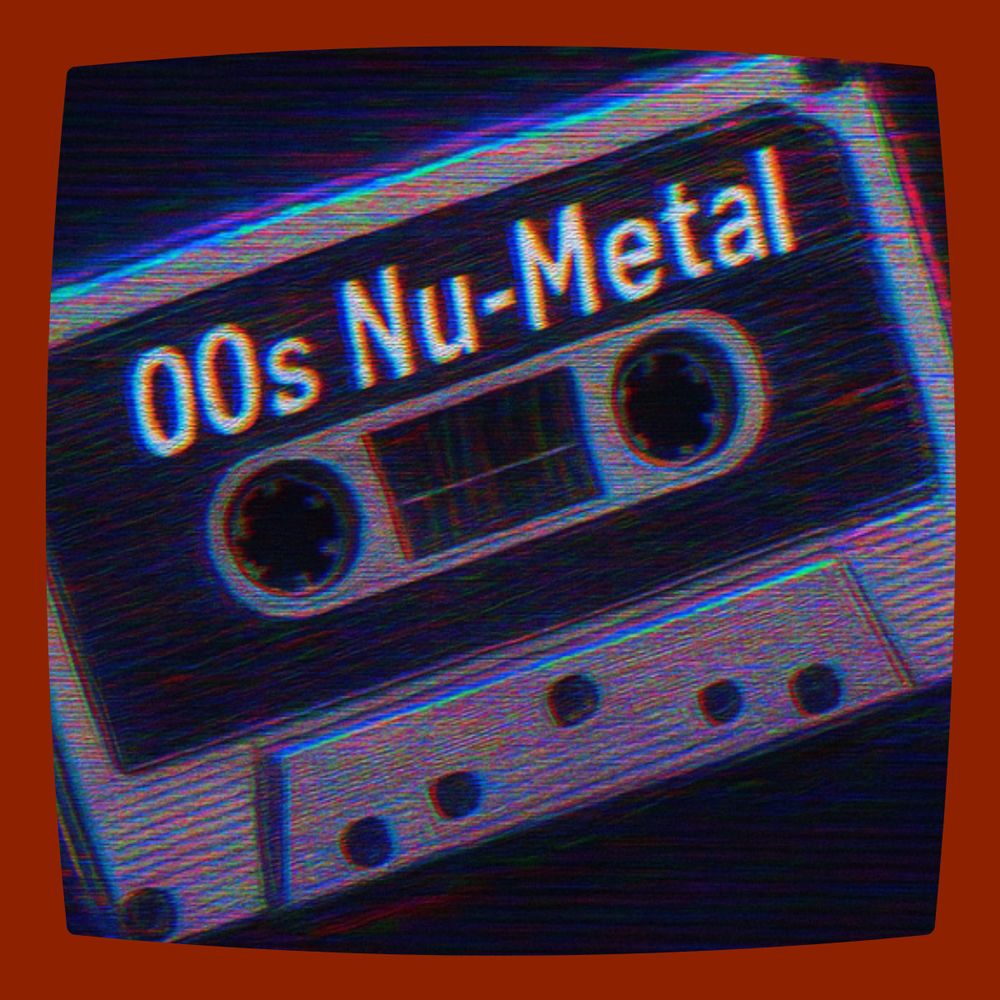
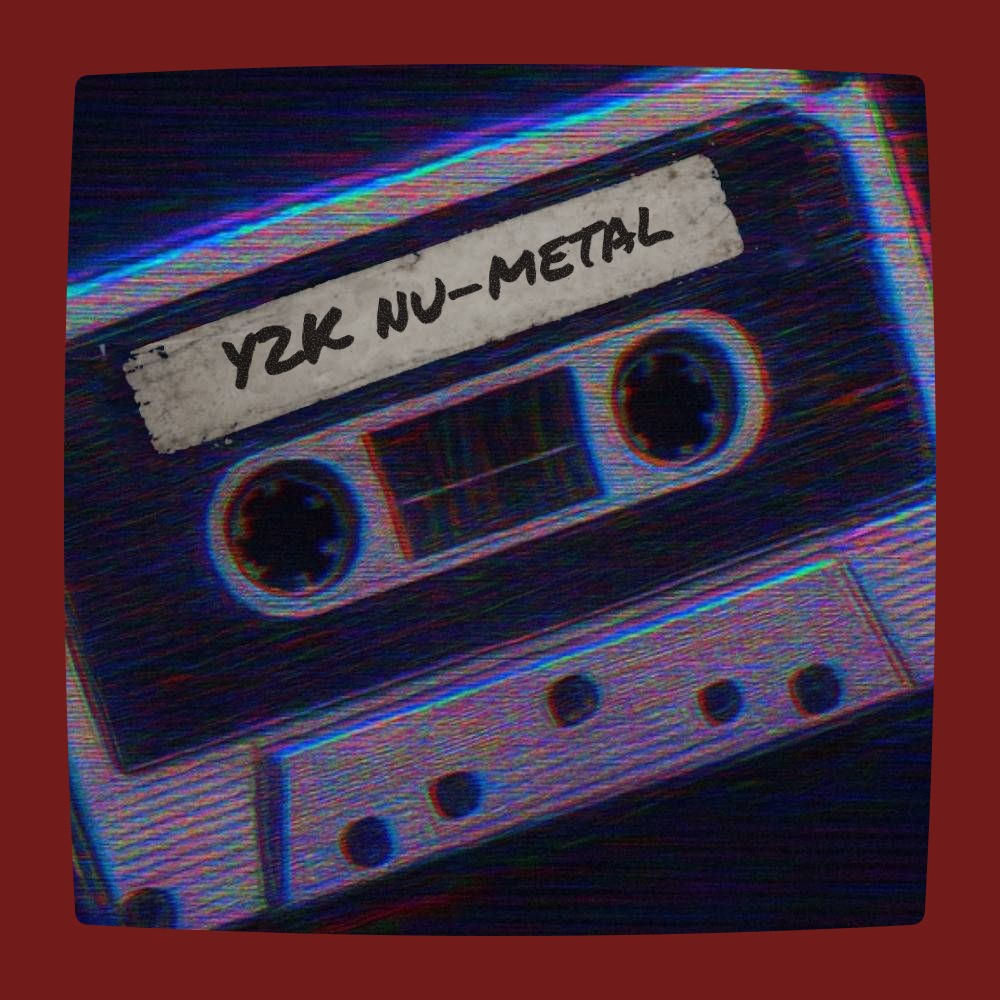
Regenerate Millennium Bug cover on the VHS glitch tape
Label reads "Y2K nu-metal".

diff --git a/playlists/millennium-bug.md b/playlists/millennium-bug.md
@@ -12,6 +12,8 @@ artists:
   - "System of a Down"
 description: "Nu-metal at its peak, 1998 to 2001. Wallet chains, frosted tips and the world ending at midnight. It didn't, so here's Hybrid Theory again."
 smartlink: https://sdz.sh/HgQVUu
+tape: vhs-glitch
+label: Y2K nu-metal
 ---
 
 ## Rework (Nov 2026)
